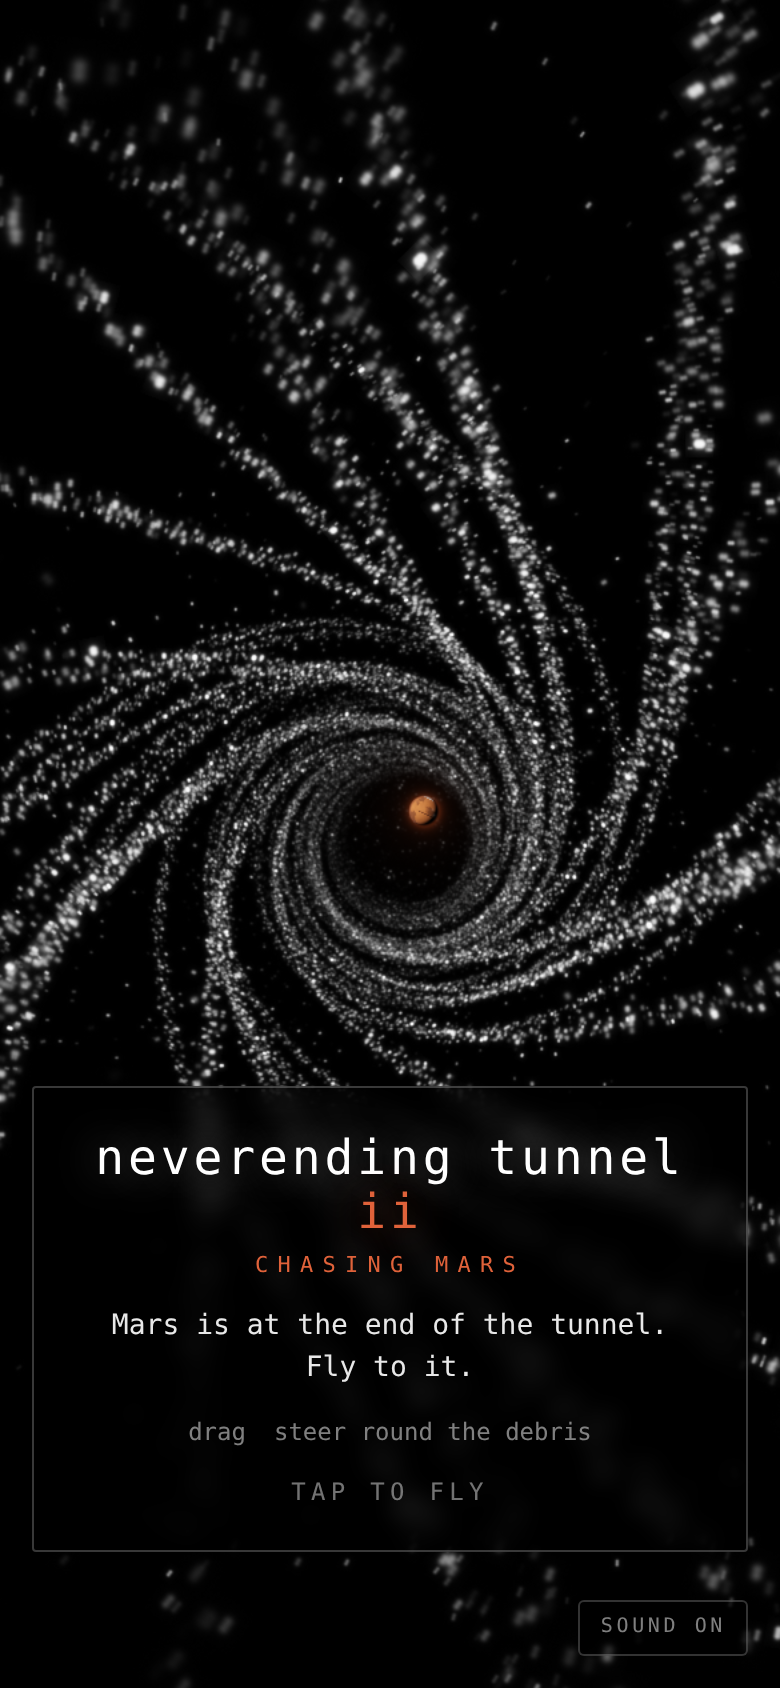
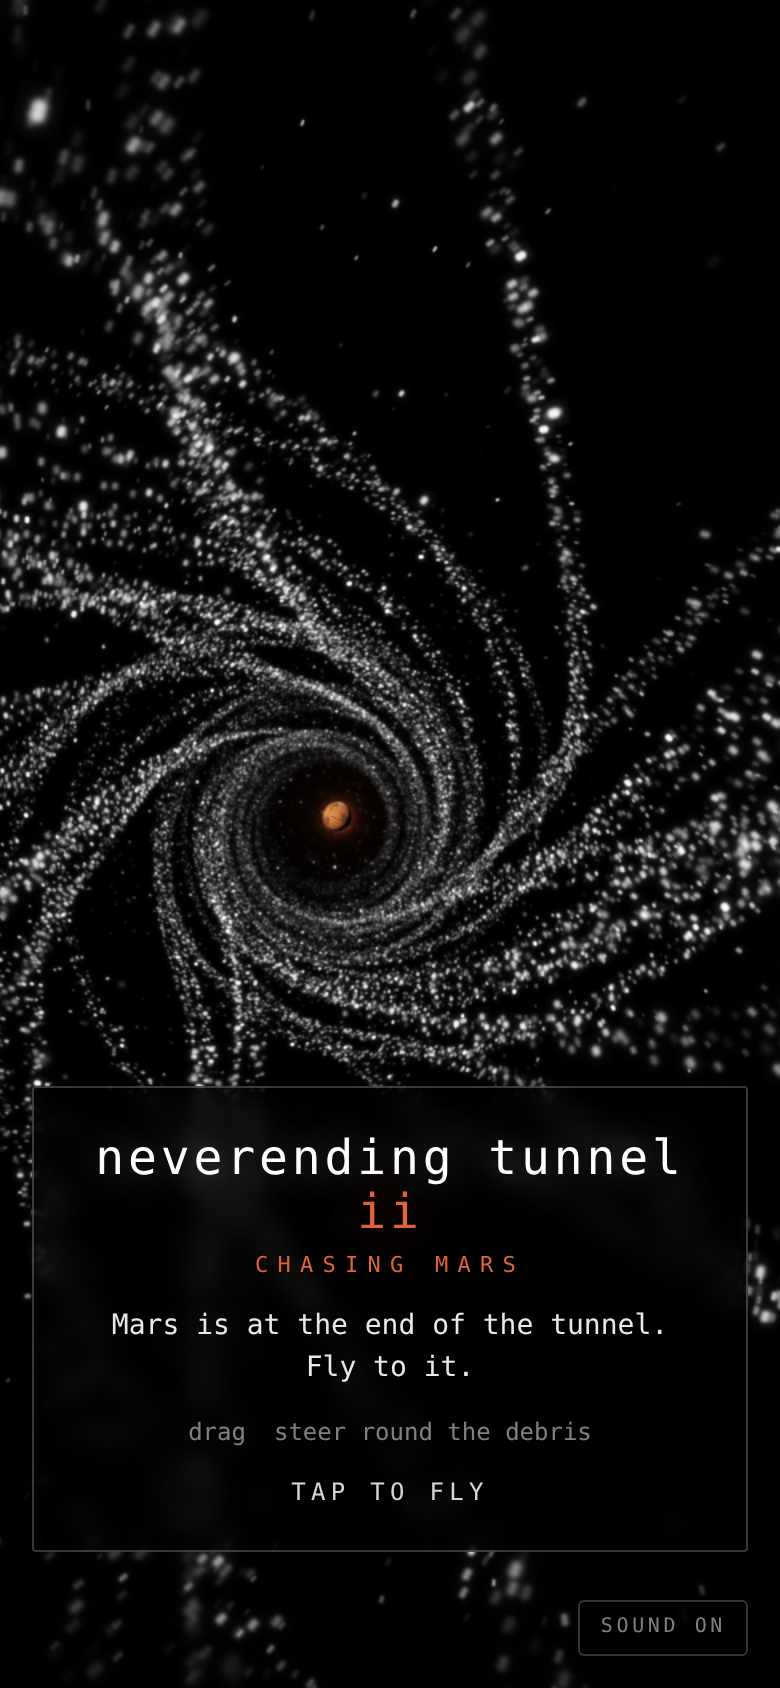
Make the vortex wavy: every bundle winds and waves its own way
Each bundle now has its own twist and tightness and a slow wave along it,
in and out and round, that rolls down it over time; strands braid within
their bundle and bundles bunch up round the tunnel. The whole funnel leans
this way and that so the black hole wanders, and Mars stays right behind
the middle of it. Same in WGSL and GLSL.

Claude-Session: https://claude.ai/code/session_01DXsyvE94oThDXTMosQhPpJ

diff --git a/src/frame.js b/src/frame.js
@@ -46,7 +46,7 @@ export function packFrame(f, { game, view, t, dt, count, reduceMotion, gain, met
   const per = Math.max(1, Math.floor((count - nDust) / (BUNDLES * STRANDS)));
   f.count = nDust + per * BUNDLES * STRANDS;
   const off = S.s - NEAR;
-  P.set([view.w, view.h, t % 1000, view.dpr], 32);
+  P.set([view.w, view.h, t % 3600, view.dpr], 32);   // the shaders' clock: see Mars below
   P.set([((off % WINDOW) + WINDOW) % WINDOW, Math.floor(off / WINDOW), f.spin, f.spin - rate * STREAK], 36);
   P.set([WINDOW, NEAR, FAR, gain], 40);
   P.set([count, BUNDLES, STRANDS, per], 44);
@@ -54,9 +54,13 @@ export function packFrame(f, { game, view, t, dt, count, reduceMotion, gain, met
   P.set(phases(S.s, f.ph), 52);
   P.set(K, 64);
 
-  // Mars, far down the tunnel.
-  const [mx, my] = pathXY(S.s + MARS_D);
-  const mPos = [mx, my, MARS_D];
+  // Mars, far down the tunnel, right behind the middle of the black hole
+  // (where the funnel leans to: see place() in particles.wgsl).
+  const tw = t % 3600;
+  const [hx, hy] = pathXY(S.s + FAR);
+  const hole = [hx + Math.sin(tw * 0.071 + 1.0) * 0.1 * FAR, hy + Math.sin(tw * 0.053 + 2.0) * 0.1 * FAR, FAR];
+  const k = MARS_D / FAR;
+  const mPos = [now.eye[0] + (hole[0] - now.eye[0]) * k, now.eye[1] + (hole[1] - now.eye[1]) * k, now.eye[2] + (hole[2] - now.eye[2]) * k];
   const mc = project(f.vp, mPos);
   const R = marsSize(meters) * MARS_D;
   const rNdc = mc[2] > 0 ? R / tanY / mc[2] : 0;

diff --git a/src/constants.js b/src/constants.js
@@ -13,9 +13,8 @@ export const HIT_R = 0.09;       // your size, for collisions
 export const MISS_R = 0.42;      // closer than this past debris is a near miss
 export const STREAK = 0.018;     // seconds of motion each streak shows
 
-// Wave numbers for the tunnel's bends (0-3 and 9-10), the streams' twists (4-7, in
-// radians per unit of depth ahead of you) and their wobble (8), with the
-// phase each starts at. The shader gets (s * K + K0) mod 2π, worked out here
+// Wave numbers for the tunnel's bends (0-3 and 9-10) and the streams'
+// wobble (8), with the phase each starts at (4-7 are spare). The shader gets (s * K + K0) mod 2π, worked out here
 // in double precision.
 export const K = [0.021, 0.047, 0.017, 0.039, 0.16, 0.2, 0.26, 0.12, 0.05, 0.06, 0.075, 0];
 export const K0 = [0, 1.3, 2.1, 0.4, 0, 0, 0, 0, 0, 0.7, 2.9, 0];
